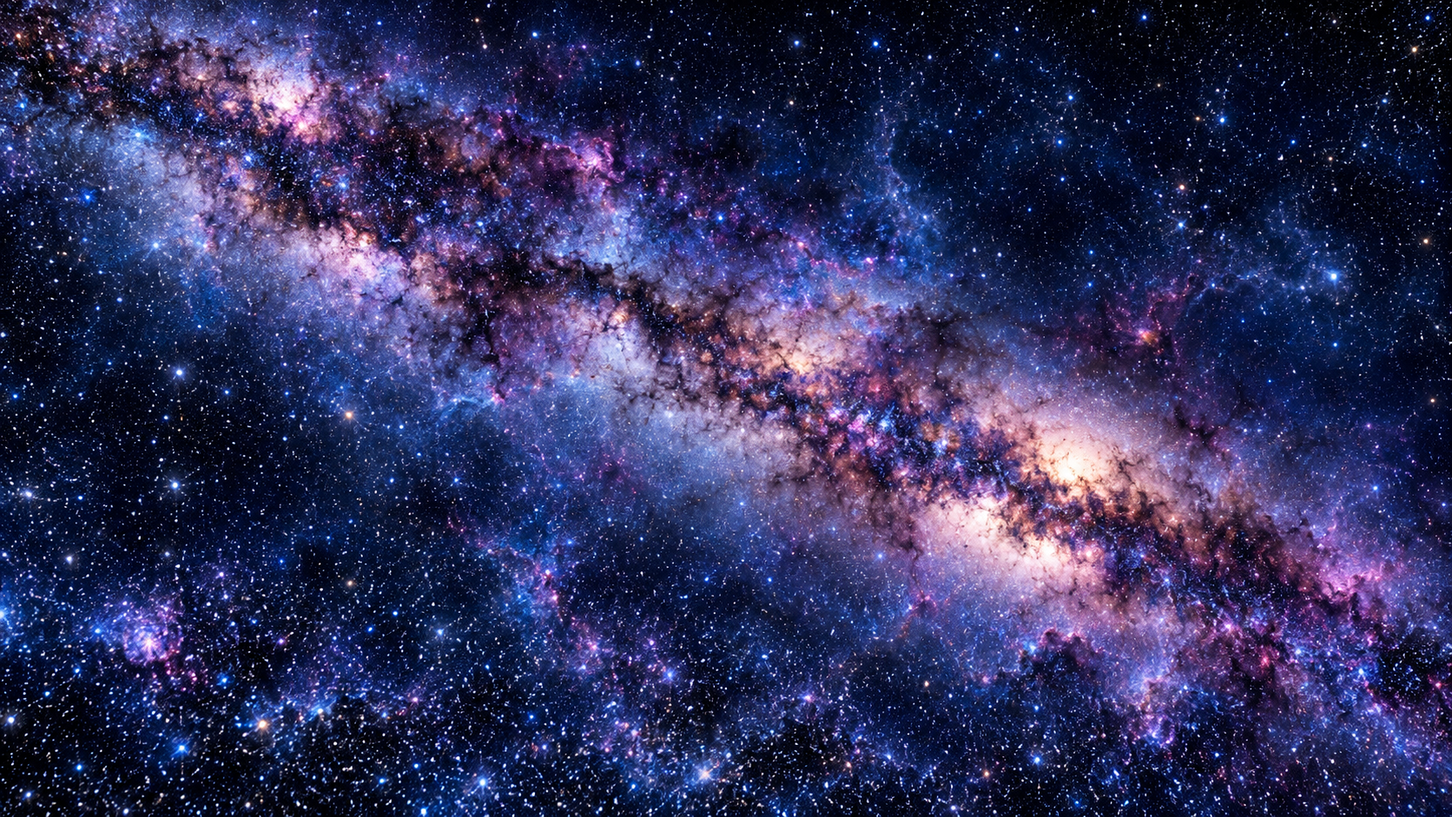
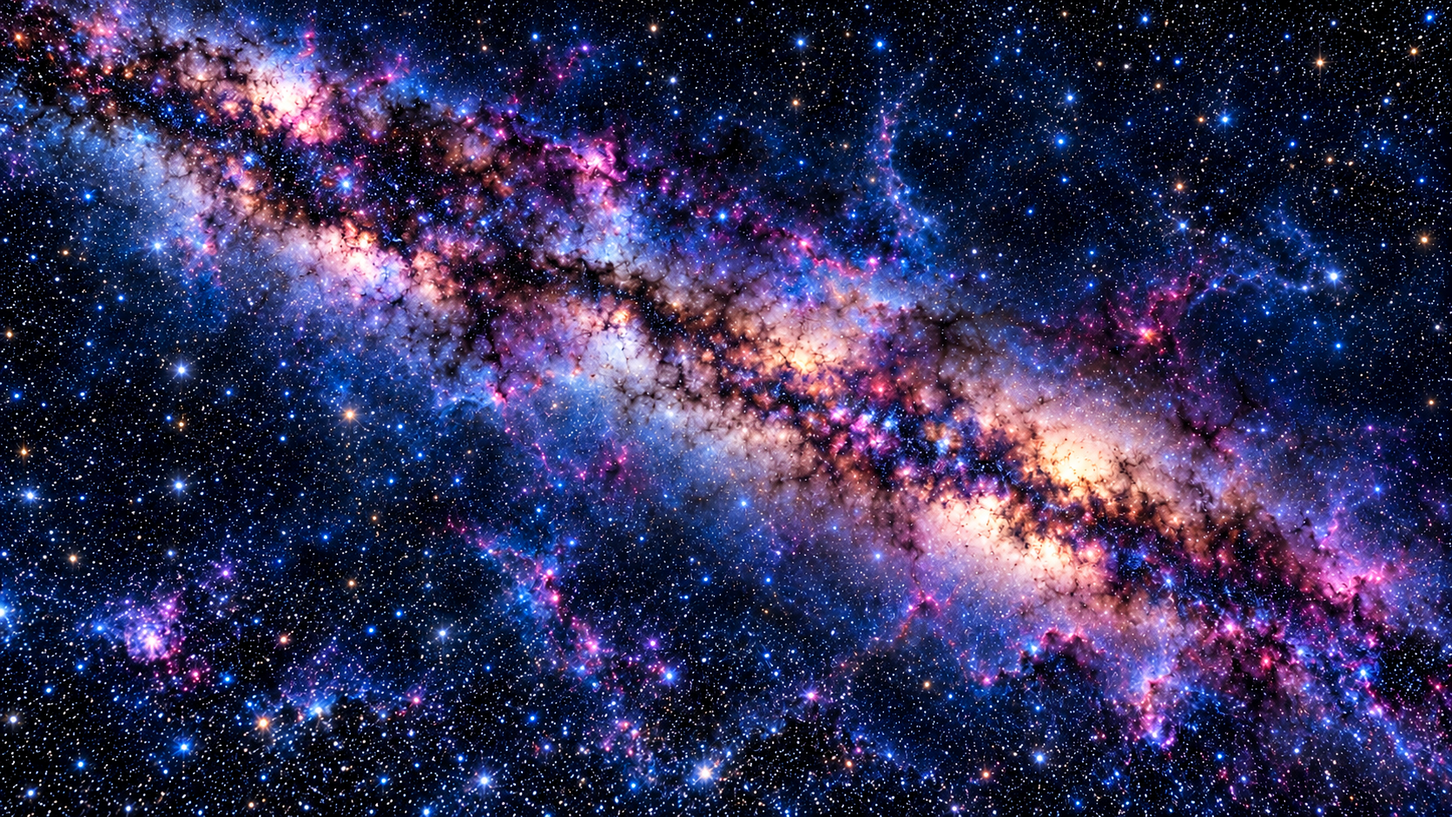
Improve Globe star detail, brightness balance and comet travel
Add native-resolution star detail and retain the generated sky checkpoint before the requested NASA replacement. Extend comet travel by 70% and tails by 30%. Keep both outer quarters bright with smooth transitions into the dim centre.

Validation: Debug and Release builds; 27 focused checks; 10,000 comet events across six aspects; native 4K rendering, cache, occlusion and swipe-band checks. Document that both generated sky candidates were rejected visually and NASA imagery is the next step.

diff --git a/src/ProjectTabletop.App/Projection/GlobeRendering/GlobeStarField.cs b/src/ProjectTabletop.App/Projection/GlobeRendering/GlobeStarField.cs
@@ -1,0 +1,97 @@
+using System.Numerics;
+using Microsoft.Graphics.Canvas;
+using Microsoft.Graphics.Canvas.Brushes;
+using Windows.UI;
+
+namespace ProjectTabletop.App.Projection.GlobeRendering;
+
+/// <summary>Stationary fine stars rasterized once at the sky cache's native resolution.</summary>
+internal static class GlobeStarField
+{
+    internal static int Draw(CanvasDrawingSession drawing, int width, int height, double aspect)
+    {
+        // One physical unit is the board's short edge. Raster reservations can
+        // have a different aspect, so each axis needs its own pixels-per-unit.
+        float physicalWidth = (float)Math.Max(1, aspect);
+        float physicalHeight = (float)Math.Max(1, 1 / aspect);
+        float xScale = width / physicalWidth, yScale = height / physicalHeight;
+        float area = physicalWidth * physicalHeight;
+        var random = new Random(0x474C4F42);
+        using var brush = new CanvasSolidColorBrush(drawing.Device, Color.FromArgb(0, 0, 0, 0));
+        var previousBlend = drawing.Blend;
+        int count = 0;
+        try
+        {
+            // Add light rather than replacing bright nebula pixels with a
+            // faint star's darker colour. Positions never depend on the clock,
+            // zoom or preview resolution, preserving the swipe reference.
+            drawing.Blend = CanvasBlend.Add;
+            int scatteredCount = (int)Math.Round(14000 * area);
+            for (int i = 0; i < scatteredCount; i++)
+                Star(Next() * physicalWidth, Next() * physicalHeight);
+
+            // Broad, differently shaped associations add natural density
+            // variation without arranging stars into rows or repeating tiles.
+            int associations = (int)Math.Ceiling(11 * area);
+            for (int association = 0; association < associations; association++)
+            {
+                float centerX = Next() * physicalWidth, centerY = Next() * physicalHeight;
+                float spread = .065f + Next() * .15f;
+                float squash = .35f + Next() * .65f;
+                float angle = Next() * MathF.Tau;
+                float cosine = MathF.Cos(angle), sine = MathF.Sin(angle);
+                int members = 75 + random.Next(100);
+                for (int i = 0; i < members; i++)
+                {
+                    float radius = MathF.Sqrt(-2 * MathF.Log(Math.Max(.000001f, Next()))) * spread;
+                    float direction = Next() * MathF.Tau;
+                    float x = radius * MathF.Cos(direction);
+                    float y = radius * MathF.Sin(direction) * squash;
+                    Star(centerX + x * cosine - y * sine, centerY + x * sine + y * cosine);
+                }
+            }
+        }
+        finally
+        {
+            drawing.Blend = previousBlend;
+        }
+        return count;
+
+        float Next() => random.NextSingle();
+
+        void Star(float x, float y)
+        {
+            // Consume the same appearance samples even for clipped stars, so
+            // edge clipping cannot change the remaining star catalogue.
+            float size = Next(), brightness = Next(), temperature = Next();
+            float prominence = Next();
+            if (x < 0 || x >= physicalWidth || y < 0 || y >= physicalHeight) return;
+            var center = new Vector2(x * xScale, y * yScale);
+            // Most cores span 0.8–2 pixels at a 2160-pixel short edge. A few
+            // brighter points remain legible after camera downsampling, while
+            // the fine majority resolves new detail at the projector's pixels.
+            float radius = (.4f + .6f * size) / 2160;
+            byte alpha = (byte)(70 + 185 * brightness * brightness);
+            if (prominence > .96f)
+            {
+                radius = (.9f + .7f * size) / 2160;
+                alpha = (byte)(195 + 60 * brightness);
+            }
+            byte red = temperature < .70f ? (byte)(205 + 50 * temperature / .70f) : (byte)255;
+            byte green = temperature < .70f ? (byte)(225 + 30 * temperature / .70f)
+                : (byte)(255 - 22 * (temperature - .70f) / .30f);
+            byte blue = temperature < .70f ? (byte)255
+                : (byte)(255 - 65 * (temperature - .70f) / .30f);
+            if (prominence > .992f)
+            {
+                brush.Color = Color.FromArgb(5, red, green, blue);
+                drawing.FillEllipse(center, radius * xScale * 3.3f, radius * yScale * 3.3f, brush);
+                brush.Color = Color.FromArgb(12, red, green, blue);
+                drawing.FillEllipse(center, radius * xScale * 1.9f, radius * yScale * 1.9f, brush);
+            }
+            brush.Color = Color.FromArgb(alpha, red, green, blue);
+            drawing.FillEllipse(center, radius * xScale, radius * yScale, brush);
+            count++;
+        }
+    }
+}

diff --git a/src/ProjectTabletop.App/MainWindow.GlobeVerification.cs b/src/ProjectTabletop.App/MainWindow.GlobeVerification.cs
@@ -227,8 +227,8 @@ public sealed partial class MainWindow
         {
             var diagnostics = scene.GetGlobeRenderDiagnostics(width / (double)height, scene.GlobeState);
             Require(diagnostics.StarFieldWidth > 3000 && diagnostics.StarFieldHeight > 1700 &&
-                    diagnostics.StarFieldRenderCount == 1,
-                "The star field was not cached once at native board resolution.");
+                    diagnostics.StarFieldRenderCount == 1 && diagnostics.NativeStarCount > 10000,
+                "The sky lacks a cached native-resolution field of individually rendered stars.");
             var firstPoint = CameraPoint(.205, .835);
             var lastPoint = CameraPoint(.98, .905);
             int changingSkyPixels = 0, roundingSkyPixels = 0, maximumSkyChannelDelta = 0;
@@ -255,7 +255,7 @@ public sealed partial class MainWindow
             Require(!scene.BoardButtonsVisible && scene.CurrentBoardButtons.Count == 0,
                 "The Globe sky check did not hide its control handle.");
             byte[] hidden = await Capture("milky-way-and-stars-controls-hidden");
-            int[] peaks = new int[8];
+            int[] peaks = new int[8], finePeaks = new int[8];
             var bandStart = CameraPoint(.02, .835);
             var bandEnd = CameraPoint(.98, .905);
             for (int y = (int)Math.Ceiling(bandStart.Y) + 4; y < bandEnd.Y - 4; y++)
@@ -269,16 +269,21 @@ public sealed partial class MainWindow
                 if (value - surroundings < 22) continue;
                 int section = Math.Clamp((int)((x - bandStart.X) * peaks.Length / (bandEnd.X - bandStart.X)), 0, peaks.Length - 1);
                 peaks[section]++;
+                int nearby = (Brightness(x - 2, y) + Brightness(x + 2, y) +
+                    Brightness(x, y - 2) + Brightness(x, y + 2)) / 4;
+                if (value - nearby >= 30) finePeaks[section]++;
             }
             Require(peaks.Sum() >= 40 && peaks.All(count => count >= 3),
                 "The hidden bottom control band lacks distributed bright star detail: " + string.Join(", ", peaks));
+            Require(finePeaks.Sum() >= 40 && finePeaks.All(count => count >= 3),
+                "The native bottom-band stars lack crisp cores within two pixels: " + string.Join(", ", finePeaks));
             ToggleControls();
             Require(scene.BoardButtonsVisible && scene.CurrentBoardButtons.Single().Id == "globe-drawer-open",
                 "The Globe sky check did not restore its control handle.");
             await Capture("milky-way-and-stars-controls-restored");
             return new { diagnostics.StarFieldWidth, diagnostics.StarFieldHeight,
-                diagnostics.StarFieldRenderCount, changingSkyPixels, roundingSkyPixels,
-                maximumSkyChannelDelta, bottomStripStarPeaks = peaks };
+                diagnostics.StarFieldRenderCount, diagnostics.NativeStarCount, changingSkyPixels, roundingSkyPixels,
+                maximumSkyChannelDelta, bottomStripStarPeaks = peaks, nativeFineStarPeaks = finePeaks };
 
             int Brightness(int x, int y)
             {

diff --git a/src/ProjectTabletop.App/Projection/GlobeRendering/GlobeShootingStar.cs b/src/ProjectTabletop.App/Projection/GlobeRendering/GlobeShootingStar.cs
@@ -13,13 +13,15 @@ internal static class GlobeShootingStar
 {
     private const double FirstSlotSeconds = 12;
     private const double SlotSeconds = 16;
+    private const float TravelExtension = 1.7f;
 
     // The jitter varies consecutive starts by 10–22 seconds without a timer,
     // mutable random generator, event history, or queued particles.
     internal static double GetStartTime(int eventIndex) =>
         FirstSlotSeconds + eventIndex * SlotSeconds + Random(eventIndex, 1) * 6;
 
-    internal static double GetDuration(int eventIndex) => .8 + Random(eventIndex, 2) * .4;
+    internal static double GetDuration(int eventIndex) =>
+        (.8 + Random(eventIndex, 2) * .4) * TravelExtension;
 
     internal static GlobeShootingStarSample Sample(double elapsedSeconds, double boardAspect)
     {
@@ -34,16 +36,18 @@ internal static class GlobeShootingStar
         var physicalScale = new Vector2(Math.Max(aspect, 1), Math.Max(1 / aspect, 1));
         float angle = (.18f + .42f * Random(index, 3));
         var direction = new Vector2(MathF.Cos(angle) * (Random(index, 4) < .5f ? -1 : 1), MathF.Sin(angle));
-        float tailLength = .08f + .04f * Random(index, 5);
-        Vector2 travel = direction * (.24f + .18f * Random(index, 6)) / physicalScale;
+        float tailLength = .104f + .052f * Random(index, 5);
+        // More distance at the same speed, with a longer but equally slim tail.
+        Vector2 travel = direction * ((.24f + .18f * Random(index, 6)) * TravelExtension) / physicalScale;
 
         // Reserve room for the complete tail on its starting side. Downward
-        // paths stay above v=.56, including the glow, and below the title.
+        // paths stay above v=.70, including the glow, and below the title.
         float tailU = tailLength * Math.Abs(direction.X) / physicalScale.X;
         float minimumU = .06f + (direction.X > 0 ? tailU : -travel.X);
         float maximumU = .94f - (direction.X > 0 ? travel.X : tailU);
+        float minimumV = Math.Max(.16f, .10f + tailLength * direction.Y / physicalScale.Y);
         var start = new Vector2(minimumU + (maximumU - minimumU) * Random(index, 7),
-            .16f + .12f * Random(index, 8));
+            minimumV + (.28f - minimumV) * Random(index, 8));
         float phase = (float)progress;
         float opacity = Smooth(phase / .12f) * Smooth((1 - phase) / .28f);
         return new(start + travel * phase, direction, physicalScale, tailLength, opacity);

diff --git a/src/ProjectTabletop.App/MainWindow.GlobeShootingStarVerification.cs b/src/ProjectTabletop.App/MainWindow.GlobeShootingStarVerification.cs
@@ -24,9 +24,22 @@ public sealed partial class MainWindow
             if (i > 0)
                 Require(start - GlobeShootingStar.GetStartTime(i - 1) is >= 10 and <= 22,
                     "Shooting stars lost their occasional spacing.");
-            Require(life is >= .8 and <= 1.2 &&
+            Require(life is >= 1.36 and <= 2.041 &&
                 !GlobeShootingStar.Sample(start + life + .01, 1).Active,
                 "A shooting star remained active beyond its brief lifetime.");
+            foreach (double aspect in new[] { .2, 1080 / 1920d, 1, 1543 / 1200d, 3840 / 2160d, 5 })
+            {
+                var arrival = GlobeShootingStar.Sample(start + life * .001, aspect);
+                var departure = GlobeShootingStar.Sample(start + life * .999, aspect);
+                double distance = ((departure.HeadUv - arrival.HeadUv) * arrival.PhysicalScale).Length() / .998;
+                Require(distance is >= .407 and <= .715,
+                    "The shooting-star path lost its extended physical travel distance.");
+                var tail = arrival.HeadUv - arrival.Direction * arrival.TailLength / arrival.PhysicalScale;
+                Require(Math.Min(tail.X, departure.HeadUv.X) >= .055 &&
+                    Math.Max(tail.X, departure.HeadUv.X) <= .945 &&
+                    tail.Y >= .095 && departure.HeadUv.Y <= .69,
+                    "An extended shooting-star path clips an edge or reaches the control/swipe band.");
+            }
         }
 
         var checks = new List<object>();

diff --git a/src/ProjectTabletop.App/Projection/GlobeRendering/GlobeSurfaceRenderer.cs b/src/ProjectTabletop.App/Projection/GlobeRendering/GlobeSurfaceRenderer.cs
@@ -33,6 +33,7 @@ internal sealed class GlobeSurfaceRenderer : IDisposable
     public int StarFieldWidth => _starField is null ? 0 : (int)_starField.SizeInPixels.Width;
     public int StarFieldHeight => _starField is null ? 0 : (int)_starField.SizeInPixels.Height;
     public int StarFieldRenderCount { get; private set; }
+    internal int NativeStarCount { get; private set; }
 
     public async Task EnsureReadyAsync()
     {
@@ -96,11 +97,15 @@ internal sealed class GlobeSurfaceRenderer : IDisposable
         var crop = new Rect((sky.Size.Width - cropWidth) / 2, (sky.Size.Height - cropHeight) / 2,
             cropWidth, cropHeight);
         var replacement = new CanvasRenderTarget(Device, width, height, 96);
+        int nativeStarCount;
         try
         {
             using (var drawing = replacement.CreateDrawingSession())
+            {
                 drawing.DrawImage(sky, new Rect(0, 0, width, height), crop, 1,
                     CanvasImageInterpolation.HighQualityCubic);
+                nativeStarCount = GlobeStarField.Draw(drawing, width, height, aspect);
+            }
         }
         catch
         {
@@ -110,6 +115,7 @@ internal sealed class GlobeSurfaceRenderer : IDisposable
         _starField?.Dispose();
         _starField = replacement;
         _starFieldAspect = aspect;
+        NativeStarCount = nativeStarCount;
         StarFieldRenderCount++;
     }
 

diff --git a/src/ProjectTabletop.App/Projection/SceneCompositor.Globe.cs b/src/ProjectTabletop.App/Projection/SceneCompositor.Globe.cs
@@ -16,7 +16,7 @@ public sealed partial class SceneCompositor
 
     internal sealed record GlobeRenderDiagnostics(bool Ready, int SurfaceWidth, int SurfaceHeight,
         int CloudWidth, int CloudHeight, double CenterU, double CenterV, double RadiusU, double RadiusV,
-        string? Error, int StarFieldWidth, int StarFieldHeight, int StarFieldRenderCount);
+        string? Error, int StarFieldWidth, int StarFieldHeight, int StarFieldRenderCount, int NativeStarCount);
 
     internal GlobeRenderDiagnostics GetGlobeRenderDiagnostics(double boardAspect, GlobeSnapshot state)
     {
@@ -29,7 +29,7 @@ public sealed partial class SceneCompositor
                 .5, .5, boardAspect >= 1 ? radius / boardAspect : radius,
                 boardAspect >= 1 ? radius : radius * boardAspect, _globeRenderer?.Error,
                 _globeRenderer?.StarFieldWidth ?? 0, _globeRenderer?.StarFieldHeight ?? 0,
-                _globeRenderer?.StarFieldRenderCount ?? 0);
+                _globeRenderer?.StarFieldRenderCount ?? 0, _globeRenderer?.NativeStarCount ?? 0);
         }
     }
 

diff --git a/src/ProjectTabletop.App/Projection/GlobeRendering/EarthSurfaceShader.cs b/src/ProjectTabletop.App/Projection/GlobeRendering/EarthSurfaceShader.cs
@@ -27,12 +27,12 @@ internal readonly partial struct EarthSurfaceShader(
         Float2 p = D2D.GetScenePosition().XY;
         Float3 background = D2D.SampleInputAtPosition(2,
             Hlsl.Clamp(p / 1000 * starFieldSize, new Float2(.5f, .5f), starFieldSize - .5f)).XYZ;
-        // Full-bright sky frames the dimmer centre. Preserve the lower swipe
-        // strip and restore the top eighth, with a soft upper transition.
-        if (p.Y > 125 && p.Y < 750)
+        // Keep both outer quarters bright for the long board edges. Feather
+        // inward to the existing half-bright centre without a visible seam.
+        if (p.Y > 250 && p.Y < 750)
         {
-            float blend = 1 - Hlsl.SmoothStep(125, 250, p.Y)
-                + Hlsl.SmoothStep(500, 750, p.Y);
+            float blend = 1 - Hlsl.SmoothStep(250, 325, p.Y)
+                + Hlsl.SmoothStep(675, 750, p.Y);
             background *= .5f + .5f * blend;
 
             // Sub-8-bit, screen-stationary dither softens transition banding.

diff --git a/README.md b/README.md
@@ -172,7 +172,7 @@ Globe's generated sky passed native rendering checks with one cached sky render,
 
 The shooting-star addition passed a Debug x64 build with zero warnings or errors and the full native Globe fixture. Fixed-pose comparisons across landscape, square, measured-board and portrait renders confirmed movement, clean extinction, repeatable timing, preserved Earth occlusion, reuse of the static sky cache and zero changed bottom-quarter pixels. Thirty native snapshots cover the complete first shooting star for visual inspection; their sampling cadence is not a measured display frame rate.
 
-The subsequent upper-sky brightness update passed the Debug x64 build with zero warnings or errors and the native Globe fixture. Independent comparisons measured the top eighth at 2.005 times its previous dimmed brightness, with a smooth falloff to the unchanged dim level by quarter-height. Earth and control interiors were pixel-identical; center/lower sky and the shooting-star contribution differed only by at most 1/255 GPU rounding. The bottom quarter was pixel-identical in five comparison images, with 336 one-level rounding pixels in the square render. After the Facecam USB reconnect, the updated build was recalibrated and Globe restored at 1080p/60. Fresh frames and the projected scene were verified with no camera-health warning; user confirmation of the upper-band balance and shooting star remains pending.
+The subsequent upper-sky brightness update passed the Debug x64 build with zero warnings or errors and the native Globe fixture. Independent comparisons measured the top eighth at 2.005 times its previous dimmed brightness, with a smooth falloff to the unchanged dim level by quarter-height. Earth and control interiors were pixel-identical; center/lower sky and the shooting-star contribution differed only by at most 1/255 GPU rounding. The bottom quarter was pixel-identical in five comparison images, with 336 one-level rounding pixels in the square render. After the Facecam USB reconnect, the updated build was recalibrated and Globe restored at 1080p/60. Fresh frames and the projected scene were verified with no camera-health warning; the user subsequently approved the comets and central Milky Way, while requesting sharper edge stars, longer comet paths and symmetric bright outer quarters. The native-star and longer-comet update passes final Debug/Release builds with zero warnings or errors, 27 focused Globe/menu/disturbance tests and a 10,000-event comet geometry check across six board aspects. The final native 4K fixture also passes: fine star cores are distributed across all eight lower-sky sections, the cache is reused through rotation/zoom, and comets leave Earth interiors and the bottom quarter unchanged across landscape, square, measured-board and portrait renders. The user rejected the second, cloud-only artwork as unnatural and requested the first generated sky. That selected image restores its embedded star field and natural-looking dust lanes; the extra 16% lower-edge compensation specific to the rejected image is removed. The shared native stars, brightness transitions and longer comets remain. The selected artwork substitution passes Debug/Release builds with zero warnings or errors and the native 4K Globe fixture, including unchanged bottom-quarter pixels during comet motion. The image hash is verified in source and both build outputs. The user subsequently rejected this first generated sky as well; replacement with NASA Deep Star Maps is the next requested step.
 
 ## Marker setup
 
@@ -422,7 +422,7 @@ Local control provides `show_crown_deed`, `crown_deed_action` and `capture_crown
 
 ### Globe
 
-The sixth menu tile opens Earth against a dense, stationary blue-violet Milky Way backdrop, with irregular clouds, dark dust lanes and natural star clusters throughout the scene. The original generated artwork is loaded with the Earth textures, cropped without stretching to the physical board aspect, and cached at native board resolution while Earth spins and zooms. The top eighth of the sky retains its original brightness, fading smoothly to half brightness between 12.5% and 25% of board height. The existing dim centre and lower blend remain unchanged: half brightness through the midpoint, then a smooth return to original brightness by the bottom quarter, which remains unchanged for swipe detection. Fine stationary dithering softens the brightness transition without twinkling. Occasional shooting stars cross the upper sky behind Earth, with a small warm-white head and a thin blue-gold tapered trail scaled to 8–12% of the physical board's shorter side. Each lasts about 0.8–1.2 seconds, with varied 10–22-second gaps between starts. Their paths and glow stay above the bottom quarter, preserving the stationary swipe reference, and they reuse the existing sky texture. Stars continue behind hidden bottom controls without a deliberately arranged row of bright points. [Artwork provenance and the generation prompt](src/ProjectTabletop.App/GlobeRendering/Assets/SKY.md) include the actual source resolution; this is illustrative scenery, not a scientifically mapped sky. Each launch approaches from far away over three seconds while spinning slowly eastward at one degree per second for exploration. Initially, a tall pale-glass up-arrow handle at the lower left is the only visible control. It clears Earth at the 0.6× opening view; at 1.5× it still clears Earth on rectangular boards, while on a square board Earth's edge reaches its upper-right corner. Holding it raises **Exit**, **Zoom -**, and **Zoom +** from below the view into the same bottom row beside the handle, which becomes a down arrow that closes them. The row ends left of the credit and zoom readout. Zoom changes scale smoothly in 1.25× steps, bounded between 0.6× and 3×. Every Globe control is a hold button, because fingers on this bottom row leave the wrist outside the camera's view and hand tracking kept dropping mid-gesture. Rest the fingers on a caption: after a second of measured caption obstruction the handle opens or closes the drawer, and **Exit** returns to the menu, each once until the fingers are seen lifted for 350 ms; **Zoom -** and **Zoom +** act once, then again every second while the fingers stay. None needs a selection gesture, turns on a search light, or answers pinch or index-separation gestures; the laptop preview's clicks still work. Each launch settles at the captured opening view: 34.0522° north, 58.2972° west, at 0.6× zoom, the widest view, so **Zoom -** is unavailable until you zoom in. The three-second entrance reaches that exact view before the existing one-degree-per-second spin continues. Reopening resets to the same view. The disk's centre keeps the chosen latitude while Earth spins about its tilted axis; no location service or network is used. Manual rotation controls, the Earth / Blue Marble heading, and the bottom gesture instruction are removed; automatic spin continues. All four controls share one height and pale glass; the handle keeps its full width, and the three narrower action buttons use the shared 28-unit Segoe UI Semibold uppercase captions. Visible controls and laptop hit targets retain their full button bounds. Vector-arrow detection measures both thin chevrons plus a small optical margin, while the full opaque plate supplies a separate camera-colour reference. Only broken arrow shapes qualify a long press; an intact arrow cancels partial progress immediately. The laptop Globe preview uses the same drawer without starting the camera or projector.
+The sixth menu tile opens Earth against a dense, stationary blue-violet Milky Way backdrop, with irregular clouds, dark dust lanes and natural star clusters throughout the scene. The selected first regenerated Milky Way artwork is loaded with the Earth textures and cropped without stretching to the physical board aspect. Fine individual stars are drawn directly into the native-resolution sky cache, with irregular positions, organic associations, varied colours and restrained halos. These native points add fine detail; the generated image and its embedded stars remain 1672 × 941 rather than being represented as native 4K artwork. The cache stays fixed while Earth spins and zooms. Both the top and bottom quarters retain full sky brightness. Smooth inward transitions at 25–32.5% and 67.5–75% of board height reach the existing half-brightness central band, with stationary dithering to avoid visible seams or twinkling. Occasional shooting stars cross the upper sky behind Earth, with a small warm-white head and a thin blue-gold tapered trail scaled to 10.4–15.6% of the physical board's shorter side. They travel 70% farther at their previous speed, lasting about 1.36–2.04 seconds, with varied 10–22-second gaps between starts. Their paths and glow stay above the bottom quarter, preserving the stationary swipe reference, and they reuse the existing sky texture. Stars continue behind hidden bottom controls without a deliberately arranged row of bright points. [Artwork provenance and the generation brief](src/ProjectTabletop.App/GlobeRendering/Assets/SKY.md) include the actual source resolution; this is illustrative scenery, not a scientifically mapped sky. Each launch approaches from far away over three seconds while spinning slowly eastward at one degree per second for exploration. Initially, a tall pale-glass up-arrow handle at the lower left is the only visible control. It clears Earth at the 0.6× opening view; at 1.5× it still clears Earth on rectangular boards, while on a square board Earth's edge reaches its upper-right corner. Holding it raises **Exit**, **Zoom -**, and **Zoom +** from below the view into the same bottom row beside the handle, which becomes a down arrow that closes them. The row ends left of the credit and zoom readout. Zoom changes scale smoothly in 1.25× steps, bounded between 0.6× and 3×. Every Globe control is a hold button, because fingers on this bottom row leave the wrist outside the camera's view and hand tracking kept dropping mid-gesture. Rest the fingers on a caption: after a second of measured caption obstruction the handle opens or closes the drawer, and **Exit** returns to the menu, each once until the fingers are seen lifted for 350 ms; **Zoom -** and **Zoom +** act once, then again every second while the fingers stay. None needs a selection gesture, turns on a search light, or answers pinch or index-separation gestures; the laptop preview's clicks still work. Each launch settles at the captured opening view: 34.0522° north, 58.2972° west, at 0.6× zoom, the widest view, so **Zoom -** is unavailable until you zoom in. The three-second entrance reaches that exact view before the existing one-degree-per-second spin continues. Reopening resets to the same view. The disk's centre keeps the chosen latitude while Earth spins about its tilted axis; no location service or network is used. Manual rotation controls, the Earth / Blue Marble heading, and the bottom gesture instruction are removed; automatic spin continues. All four controls share one height and pale glass; the handle keeps its full width, and the three narrower action buttons use the shared 28-unit Segoe UI Semibold uppercase captions. Visible controls and laptop hit targets retain their full button bounds. Vector-arrow detection measures both thin chevrons plus a small optical margin, while the full opaque plate supplies a separate camera-colour reference. Only broken arrow shapes qualify a long press; an intact arrow cancels partial progress immediately. The laptop Globe preview uses the same drawer without starting the camera or projector.
 
 A GPU sphere shader samples NASA's 8192 × 4096 Blue Marble surface and 2048 × 1024 cloud maps directly at native calibrated board density. It adds axial tilt, daylight shading, cloud shadows, a restrained ocean reflection and a thin atmosphere. Earth is centered on the board and its entrance settles at 0.6× zoom. The view has no outer frame, and its top-left title shares Photo Copy and Paint's typography. The NASA credit and zoom/rotation readout sit together at the bottom-right edge with their original fonts, colours, spacing and centered alignment; opening the drawer does not move them. Physical board aspect correction keeps Earth round; zoom can extend behind the opaque controls. This is satellite composite imagery, not live weather or a map-label service. Data credits and source links are in [THIRD_PARTY_NOTICES.md](THIRD_PARTY_NOTICES.md).
 

diff --git a/src/ProjectTabletop.App/GlobeRendering/Assets/SKY.md b/src/ProjectTabletop.App/GlobeRendering/Assets/SKY.md
@@ -1,15 +1,17 @@
 # Globe sky artwork
 
-`milky-way-sky.png` is original artwork generated with the built-in image-generation tool on 2026-10-17, using the user's supplied Milky Way image as visual inspiration. It is an illustrative deep-space backdrop, not a scientifically mapped sky or a NASA image. The Earth surface and cloud sources are documented separately.
+`milky-way-sky.png` is the first original illustrative sky regenerated with the built-in image-generation tool on 2026-10-17. It preserves the earlier blue-violet diagonal Milky Way, with a dense star field and natural-looking dust lanes. The user chose this version after rejecting the second, cloud-only rendition as unnatural. The user subsequently rejected this first rendition too and requested NASA Deep Star Maps next. It is not a scientifically mapped sky or a NASA image. Earth and cloud sources are documented separately.
 
[2 lines of base64/hex data omitted]
 
-The app loads the opaque image with its other Globe textures and caches an aspect-preserving crop for the board, scaling the source to the output resolution. The background stays stationary while Earth rotates and zooms. Runtime sky shading keeps the top 12.5% at its original intensity, smoothly reduces it to 50% RGB intensity by 25% of board height, preserves that dim level through the midpoint, and smoothly restores the original intensity between 50% and 75% of board height. The bottom quarter remains unmodified for swipe detection; fine static dithering avoids a visible tonal boundary. Earth, its atmosphere and the controls retain their original brightness. Dense detail continues through the lower control area; there are no separately arranged rows of bright star decorations.
+The renderer crops the sky texture to the physical board aspect and draws a separate, deterministic field of individual stars directly at the output's native pixel density. Fine cores, varied colour/intensity, restrained halos and broad irregular associations add genuine detail. Physical short-edge coordinates preserve round points on different board shapes. The second rendition's extra lower-edge brightness compensation is removed. Both layers are cached together; Earth rotation, zoom and comet motion do not regenerate or animate the sky, keeping the swipe reference stationary.
 
-An occasional shooting star is rendered separately in code above the bottom quarter. Its warm-white head and thin tapered trail pass behind Earth; the original sky image and its cached texture remain stationary.
+Runtime shading keeps the top and bottom quarters fully bright. Smooth inward transitions over 25–32.5% and 67.5–75% of board height meet the unchanged 50% RGB-intensity centre. Fine stationary dithering softens tonal seams. The brightness mask affects only the sky; Earth, its atmosphere, comets and controls retain their own shading.
 
-Generation prompt:
+Occasional comets travel 70% farther at their earlier velocity, lasting 1.36–2.04 seconds, with tails 30% longer. Their thin warm-white/blue-gold trail remains behind Earth and above the stable bottom-quarter swipe area.
+
+Generation brief for the selected first rendition (summary; built-in image-generation tool, earlier sky used as the edit reference):
 
 ```text
-Use case: stylized-concept. Create a brand-new high-quality astronomical Milky Way background texture for an interactive Earth globe app, inspired by the user's reference: an extraordinarily dense star field on deep indigo, with luminous blue-violet and softly pink galactic clouds, intricate dark dust lanes and countless fine white stars. Asset: opaque landscape 16:9 backdrop, ideally 3840 x 2160, rich crisp detail throughout. The Milky Way sweeps diagonally from upper left through a broad irregular luminous mass toward lower right, with branching wisps and organic star associations at many scales. Keep the entire bottom fifth busy with naturally distributed small sharp white and pale blue stars and varied clouds, including both lower corners; no empty black band. Varied star sizes but no huge flares or dominant beacon stars. Natural irregular distribution, mature premium space visual, not a regimented row or deliberate evenly spaced clusters. Darker indigo gaps should coexist with luminous detail, preserving enough contrast for a separately rendered Earth in the central area without a manufactured central blank spot. This image contains ONLY deep-space sky: no Earth, planets, moon, sun, horizon, landscape, objects, captions, labels, logos, borders, interface, watermarks or lens-flare streaks. Full bleed to every edge, opaque RGB/RGBA, no transparency.
+Regenerate a sharper, richly detailed star-filled sky for a 4K projector, targeting 3840 × 2160. Preserve the much-loved central diagonal blue-violet Milky Way and its dusty galactic light, while improving fine star detail along the long edges.
 ```

diff --git a/NEW_PROJECT.md b/NEW_PROJECT.md
@@ -1,5 +1,7 @@
 # ProjectTabletop
 
+**Current source Globe detail update (unreleased):** The central Milky Way uses the first regenerated sky selected by the user, supplemented by individually drawn native-resolution stars. The rejected cloud-only rendition and its extra lower-edge brightness compensation are removed. Comets travel 70% farther at the same speed and have 30% longer tails. Both outer quarters stay bright, with smooth inward transitions to the half-brightness centre. Final Debug/Release builds, 27 focused tests and 10,000 comet events across six aspects pass. The final native 4K fixture passes fine-star detail, stationary caching, Earth occlusion and unchanged bottom-swipe pixels. The selected artwork substitution also passes Debug/Release builds and the native 4K fixture. Both generated sky candidates have now been rejected visually; NASA Deep Star Maps is the next requested replacement. See [Globe](README.md#globe).
+
 **Current source performance update (unreleased):** Water Garden caches fountain pressure calculations and fixed stone geometry while retaining its established rendering path, 120 Hz physics, native detail and ducks. Shared board-selection reads avoid waiting on rendering; scene mutation and input validation stay synchronized. Exact physics comparisons, final Debug/Release builds, all 521 offline tests and five focused native checks pass. Live Release captures with preview off generated 38.45 water frames/s before and 38.10 after, so no measurable animation speed-up has been established. The user confirmed that the final build feels smoother and that the double-bar marker and controls work; this subjective improvement is separate from the unchanged average frame rate. See [Water Garden](README.md#water-garden).
 
 **Released scope, version 1.2.0, October 12, 2026:** The launcher has nine boards: Dragon Slots, Photo Copy, Blackjack, Paint, Crown & Deed, Globe, Roulette, Water Garden and Football. Six cards fill the first page, including Football at the top right and Water Garden at the middle right; a fresh sideways-index or pinch selection on the down arrow reveals Roulette, Paint and Photo Copy on the second page.
